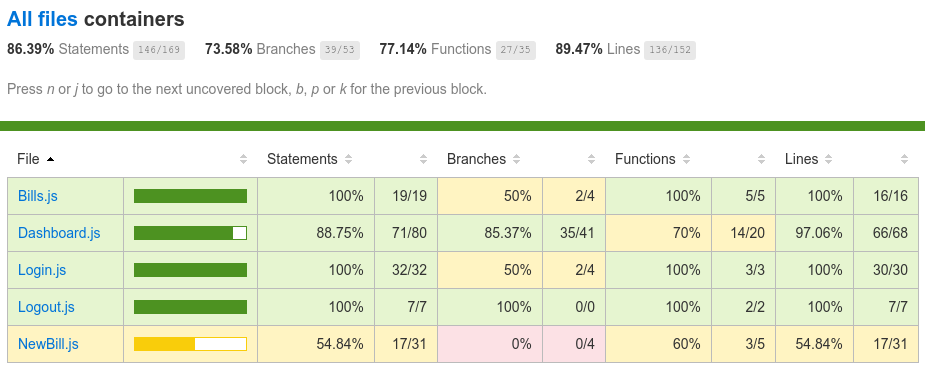
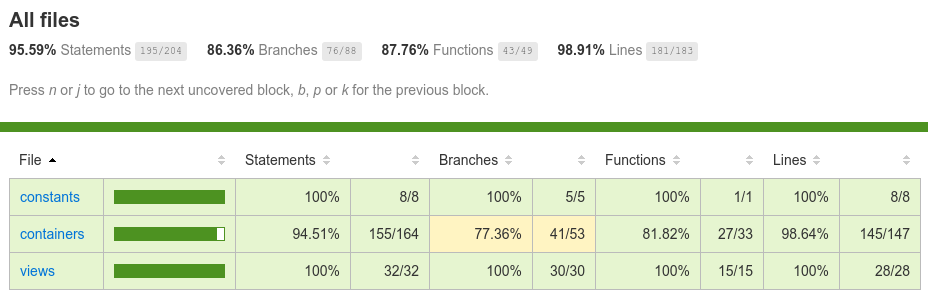
test NewBill.js

diff --git a/src/__tests__/NewBill.js b/src/__tests__/NewBill.js
@@ -1,14 +1,91 @@
-import { screen } from "@testing-library/dom"
+import {setLocalStorage} from "../../setup-jest"
+import { fireEvent, screen} from "@testing-library/dom"
 import NewBillUI from "../views/NewBillUI.js"
 import NewBill from "../containers/NewBill.js"
+import firestore from "../app/Firestore.js"
 
+// Setup
+const onNavigate = () => {return}
+setLocalStorage('Employee')
+Object.defineProperty(window, "location", { value: { hash: "#employee/bill/new" } })
 
 describe("Given I am connected as an employee", () => {
-  describe("When I am on NewBill Page", () => {
-    test("Then ...", () => {
-      const html = NewBillUI()
-      document.body.innerHTML = html
-      //to-do write assertion
+  describe("When I access NewBill Page", () => {
+    test("Then the newBill page should be rendered", () => {
+      document.body.innerHTML = NewBillUI()
+      expect(screen.getAllByText("Envoyer une note de frais")).toBeTruthy()
+    })
+    test("Then a form with nine fields should be rendered", () => {
+      document.body.innerHTML = NewBillUI()
+      const form = document.querySelector("form")
+      expect(form.length).toEqual(9)
     })
   })
+  describe("When I'm on NewBill Page", () => {
+    describe("And I upload a image file", () => {
+      test("Then the file handler should show a file", () => {
+        document.body.innerHTML = NewBillUI()
+        const newBill = new NewBill({ document, onNavigate, firestore: firestore, localStorage: window.localStorage })
+        const handleChangeFile = jest.fn(() => newBill.handleChangeFile)
+        const inputFile = screen.getByTestId("file")
+        inputFile.addEventListener("change", handleChangeFile)
+        fireEvent.change(inputFile, {
+            target: {
+                files: [new File(["sample.txt"], "sample.txt", { type: "text/txt" })],
+            }
+        })
+        const numberOfFile = screen.getByTestId("file").files.length
+        expect(numberOfFile).toEqual(1)
+      })
+    })
+    describe("And I upload a non-image file", () => {
+      test("Then the error message should be display", async () => {
+        document.body.innerHTML = NewBillUI()
+        const newBill = new NewBill({ document, onNavigate, firestore: firestore, localStorage: window.localStorage })
+        const handleChangeFile = jest.fn(() => newBill.handleChangeFile)
+        const inputFile = screen.getByTestId("file")
+        inputFile.addEventListener("change", handleChangeFile)
+        fireEvent.change(inputFile, {
+            target: {
+                files: [new File(["sample.txt"], "sample.txt", { type: "text/txt" })],
+            }
+        })
+        expect(handleChangeFile).toBeCalled()
+        expect(inputFile.files[0].name).toBe("sample.txt")
+        expect(document.querySelector(".error-imageFormat").style.display).toBe("block")
+      })
+    })
+    describe("And I submit a valid bill form", () => {
+      test('then a bill is created', async () => {
+        document.body.innerHTML = NewBillUI()
+        const newBill = new NewBill({ document, onNavigate, firestore: firestore, localStorage: window.localStorage })
+        const submit = screen.getByTestId('form-new-bill')
+        const validBill = {
+          name: "validBill",
+          date: "2021-01-01",
+          type: "Restaurants et bars",
+          amount: 10,
+          pct: 10,
+          vat: "40",
+          fileName: "test.jpg",
+          fileUrl: "https://goulven-clech.dev/test.jpg"
+        }
+        const handleSubmit = jest.fn((e) => newBill.handleSubmit(e))
+        newBill.createBill = (newBill) => newBill
+        document.querySelector(`input[data-testid="expense-name"]`).value = validBill.name
+        document.querySelector(`input[data-testid="datepicker"]`).value = validBill.date
+        document.querySelector(`select[data-testid="expense-type"]`).value = validBill.type
+        document.querySelector(`input[data-testid="amount"]`).value = validBill.amount
+        document.querySelector(`input[data-testid="vat"]`).value = validBill.vat
+        document.querySelector(`input[data-testid="pct"]`).value = validBill.pct
+        document.querySelector(`textarea[data-testid="commentary"]`).value = validBill.commentary
+        newBill.fileUrl = validBill.fileUrl
+        newBill.fileName = validBill.fileName 
+        submit.addEventListener('click', handleSubmit)
+        fireEvent.click(submit)
+        expect(handleSubmit).toHaveBeenCalled()
+      })
+    })
+  })
+    
 })

diff --git a/src/__tests__/Bills.js b/src/__tests__/Bills.js
@@ -34,11 +34,10 @@ describe("Given I am connected as an employee", () => {
       test("Then the click new bill handler should be called", () => {  
         document.body.innerHTML = BillsUI({ data: bills })
         const sampleBills = new Bills({ document, onNavigate, firestore: null, localStorage: window.localStorage })
-        const handleClickNewBill = jest.fn(sampleBills.handleClickNewBill)
-        const newBillButton = screen.getByTestId("btn-new-bill")
-        newBillButton.addEventListener("click", handleClickNewBill)
-        userEvent.click(newBillButton)
-        expect(handleClickNewBill).toBeCalled()
+        sampleBills.handleClickNewBill = jest.fn()
+        screen.getByTestId("btn-new-bill").addEventListener("click", sampleBills.handleClickNewBill)
+        screen.getByTestId("btn-new-bill").click()
+        expect(sampleBills.handleClickNewBill).toBeCalled()
       })
     })
     describe("And I click on the eye icon", () => {
@@ -55,8 +54,8 @@ describe("Given I am connected as an employee", () => {
         const iconEye = document.querySelector(`div[data-testid="icon-eye"]`)
         $.fn.modal = jest.fn()
         sampleBills.handleClickIconEye(iconEye)
-        expect($.fn.modal).toHaveBeenCalled()
-        expect(document.querySelector(".modal")).toBeTruthy();
+        expect($.fn.modal).toBeCalled()
+        expect(document.querySelector(".modal")).toBeTruthy()
       })
     })
   })

diff --git a/setup-jest.js b/setup-jest.js
@@ -4,5 +4,5 @@ global.$ = global.jQuery = $;
 import {localStorageMock} from "./src/__mocks__/localStorage";
 export function setLocalStorage (user) {
     Object.defineProperty(window, 'localStorage', { value: localStorageMock })
-    window.localStorage.setItem('user', JSON.stringify({ type: user }))
+    window.localStorage.setItem('user', JSON.stringify({ type: user, email: 'test@email.com' }))
 }

diff --git a/src/containers/NewBill.js b/src/containers/NewBill.js
@@ -26,7 +26,7 @@ export default class NewBill {
      * Check if the file is an image
      */
     if(['jpg','jpeg','png'].includes(fileExtension)){
-      document.getElementById("error-filetype").s
+      /* istanbul ignore next */
       this.firestore
           .storage
           .ref(`justificatifs/${fileName}`)
